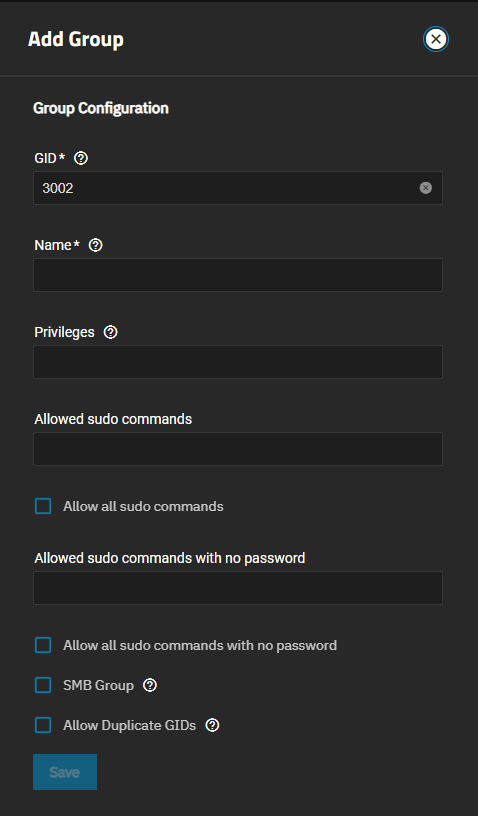
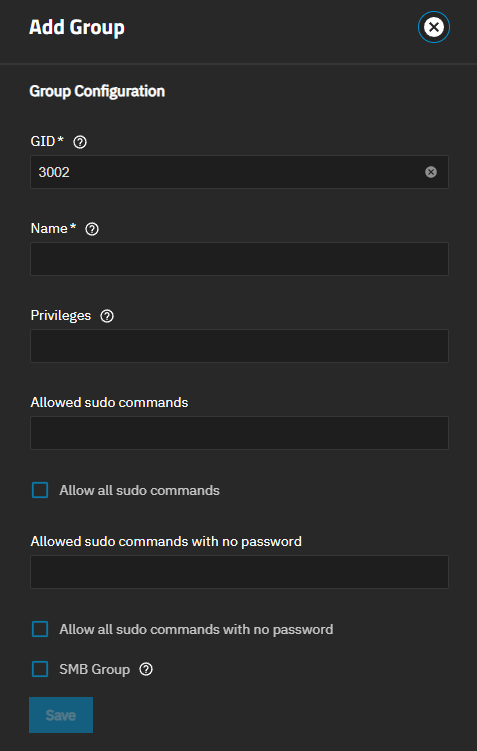
PD-1551 Update the Group Screens and Tutorial Articles (#3554)
This commit removes mentions of the Allow Duplicate GIDs from both articles, and update the screenshot.
Add information in the tutorial about why duplicate GIDs cannot no longer be entered in TrueNAS. Also fix the syntax in the includes file shortcode for columns.

diff --git a/content/SCALE/SCALEUIReference/Credentials/LocalGroupsScreens.md b/content/SCALE/SCALEUIReference/Credentials/LocalGroupsScreens.md
@@ -32,33 +32,26 @@ Click the <span class="material-icons">expand_more</span> arrow or anywhere on a
 
 Use [**Members**](#update-members) to manage membership and [**Edit**](#edit-group) or **Delete** to manage the group.
 
-## Add Group Screen
+## Add and Edit Group Screens
 
-Click **Add** to open the **Add Group** configuration screen.
+The **Add Group** and **Edit Group** screens show the same settings but the GID is not editable after saving changes on the **Add Group** screen.
+**Add** opens the **Add Group** configuration screen.
+The <svg xmlns="http://www.w3.org/2000/svg" width="24" height="24" viewBox="0 0 24 24"><path fill="currentColor" d="M20.71 7.04c.39-.39.39-1.04 0-1.41l-2.34-2.34c-.37-.39-1.02-.39-1.41 0l-1.84 1.83l3.75 3.75M3 17.25V21h3.75L17.81 9.93l-3.75-3.75z"/></svg> **Edit** icon opens the **Edit Group** screen.
 
 {{< trueimage src="/images/SCALE/Credentials/AddGroupScreen.png" alt="Add Group Screen" id="Add Group Screen" >}}
 
 {{< truetable >}}
 | Setting | Description |
 |---------|-------------|
-| **GID** | Required. Enter a unique number for the group ID (**GID**) TrueNAS uses to identify a Unix group. Enter a number above 1000 for a group with user accounts (you cannot change the GID later). If a system service uses a group, the group ID must match the default port number for the service. |
-| **Name** | Required. Enter a name for the group. The group name cannot begin with a hyphen (-) or contain a space, tab, or any of these characters: colon (:), plus (+), ampersand (&), hash (#), percent (%), carat (^), open or close parentheses ( ), exclamation mark (!), at symbol (@), tilde (~), asterisk (*), question mark (?) greater or less than (<) (>), equal (=). You can only use the dollar sign ($) as the last character in a user name. |
-| **Privileges** | Attaches administrator role privileges to the group. Using custom administrator roles aside from the defaults is an **experimental** feature and is not supported. Do not modify the local administrator or default admin user privileges! Only use if you need users in this group to access limited areas of the web UI or authentication for TrueNAS API calls. |
-| **Allowed sudo commands** | Use to list specific [sudo](https://www.sudo.ws/) commands allowed for group members. Enter each command as an absolute path to the ELF (Executable and Linkable Format) executable file, for example */usr/bin/nano*. <file>/usr/bin/</file> is the default location for commands. <br> Grants limited root-like permissions for group members when using these commands. Using sudo prompts the user for their account password. |
+| **GID** | (Required) Enter a unique number for the group ID (**GID**) TrueNAS uses to identify a Unix group. Enter a number above 1000 for a group with user accounts. If a system service uses the group, the group ID must match the default port number for the service.<br> Shows the group ID assigned at the time the group is created on the **Edit Group** screen but cannot be changed. |
+| **Name** | (Required) Enter a name for the group. The group name cannot begin with a hyphen (-) or contain a space, tab, or any of these characters: colon (:), plus (+), ampersand (&), hash (#), percent (%), carat (^), open or close parentheses ( ), exclamation mark (!), at symbol (@), tilde (~), asterisk (*), question mark (?) greater or less than (<) (>), equal (=). You can only use the dollar sign ($) as the last character in a group or user name. |
+| **Privileges** | Attaches defined role privileges to the group as configured on the Add or Edit Privileges screens. Using custom administrator roles aside from the defaults is an **experimental** feature and is not supported. Do not modify the local administrator or default admin user privileges! Only use if you need users in this group to access limited areas of the TrueNAS UI or authentication for TrueNAS API calls. |
+| **Allowed sudo commands** | Enter specific [sudo](https://www.sudo.ws/) commands group members are allowed to enter. Enter each command as an absolute path to the ELF (Executable and Linkable Format) executable file, for example */usr/bin/nano*. <file>/usr/bin/</file> is the default location for commands. <br> Grants limited root-like permissions for group members when using these commands. Using sudo prompts the user for their account password. |
 | **Allow all sudo commands** | Select to give group members permission to use all [sudo](https://www.sudo.ws/) commands. Using sudo prompts the user for their account password. |
-| **Allowed sudo commands with no password** | Use to list specific [sudo](https://www.sudo.ws/) commands allowed for group members with no password required. Enter each command as an absolute path to the ELF (Executable and Linkable Format) executable file, for example */usr/bin/nano*. <file>/usr/bin/</file> is the default location for commands. <br> Grants limited root-like permissions for group members when using these commands. Exercise caution when allowing sudo commands without password prompts. It is recommended to limit this privilege to trusted users and specific commands to minimize security risks. |
-| **Allow all sudo commands with no password** | Not recommended. Select to give group members the ability to use all [sudo](https://www.sudo.ws/) commands with no password required. |
-| **SMB Group** | Select to make this group available for permissions editors over [SMB protocol]({{< relref "/SCALE/SCALETutorials/Shares/_index.md" >}}) (and the share ACL editor). It is not used for SMB authentication or determining the user session token or internal permissions checks. |
-| **Allow Duplicate GIDs** | Not recommended. Select to allow more than one group to have the same group ID. Use only if absolutely necessary, as duplicate GIDs can lead to unexpected behavior. |
+| **Allowed sudo commands with no password** | Enter specific allowed [sudo](https://www.sudo.ws/) commands users in the group members can enter without needing to enter their password. Enter each command as an absolute path to the ELF (Executable and Linkable Format) executable file, for example */usr/bin/nano*. <file>/usr/bin/</file> is the default location for commands. <br> Grants limited root-like permissions for group members when using these commands. Exercise caution when allowing sudo commands without password prompts. Recommended to limit the privilege to trusted users and specific commands to minimize security risks. |
+| **Allow all sudo commands with no password** | Not recommended. Select to give group members the ability to enter all [sudo](https://www.sudo.ws/) commands without needing to enter a password. |
+| **SMB Group** | Select to make the group available for permissions editors over [SMB protocol]({{< relref "/SCALE/SCALETutorials/Shares/_index.md" >}}) (and the share ACL editor). Not used for SMB authentication or determining the user session token or internal permissions checks. |
 {{< /truetable >}}
-
-## Edit Group Screen
-
-Click **Edit** on an expanded group in the **Groups** screen to open the **Edit Group** screen.
-
-{{< trueimage src="/images/SCALE/Credentials/EditGroup.png" alt="Edit Group Screen" id="Edit Group Screen" >}}
-
-**Edit Group** has the same fields and checkboxes as [**Add Group**](#add-group-screen), except that it does not include **Allow Duplicate GIDs**.
 
 ## Update Members Screen
 
@@ -66,45 +59,42 @@ Use the **Update Members** screen to manage group permissions and access for lar
 
 {{< trueimage src="/images/SCALE/Credentials/GroupsManageMembersSCALE.png" alt="Update Members Screen" id="Update Members Screen" >}}
 
-To add user accounts to the group, select users and then click the right arrow <i class="fa fa-arrow-right" aria-hidden="true" title="Right Arrow"></i>.
-To remove user accounts from the group, select users and then click the left arrow <i class="fa fa-arrow-left" aria-hidden="true" title="Left Arrow"></i>.
-Select multiple users by holding <kbd>Ctrl</kbd> while clicking each entry.
-
-Click **Save**.
+The right arrow <i class="fa fa-arrow-right" aria-hidden="true" title="Right Arrow"></i> adds a user account to the group after selecting the user.
+The left arrow <i class="fa fa-arrow-left" aria-hidden="true" title="Left Arrow"></i> removes the selected user account from the group.
+Hold <kbd>Ctrl</kbd> while clicking each entry to select multiple groups.
 
 ## Privileges Screen
 
 {{< hint type="warning" title="Experimental Feature" >}}
-The **Privileges** feature is an early release experimental feature.
-Use the **Privileges** screens to view default administrator groups and roles, or define customized groupings of roles for different local or Directory Service-imported account groups.
+The **Privileges** feature is an early-release experimental feature.
+The **Privileges** screens show the default administrator groups and roles and define customized groupings of roles for different local or directory service-imported account groups.
 
-Only the **Readonly Admin**, **Sharing Admin**, and **Full Admin** roles are supported in the Web UI.
-Users can experiment with defining a new privilege but should **NOT** edit the existing predefined administrator roles!
+The TrueNAS UI shows the **Readonly Admin**, **Sharing Admin**.
+
+Do not edit the existing predefined administrator roles!
 Editing the unrestricted administrator account privilege can result in lost access to the system!
-
 {{< /hint >}}
 
 {{< trueimage src="/images/SCALE/Credentials/PrivilegesScreen.png" alt="Privileges Screen" id="Privileges Screen" >}}
 
+### Add and Edit Privilege Screens
+
 **Add** opens the **New Privilege** screen.
-
-{{< trueimage src="/images/SCALE/Credentials/AddNewPrivilegeScreen.png" alt="New Privilege Screen" id="New Privilege Screen" >}}
-
-Click on a listed privilege to expand the row and show details on the privilege.
-Edit opens the **Edit Privilege** screen.
-
+The <svg xmlns="http://www.w3.org/2000/svg" width="24" height="24" viewBox="0 0 24 24"><path fill="currentColor" d="M20.71 7.04c.39-.39.39-1.04 0-1.41l-2.34-2.34c-.37-.39-1.02-.39-1.41 0l-1.84 1.83l3.75 3.75M3 17.25V21h3.75L17.81 9.93l-3.75-3.75z"/></svg> **Edit** icon opens the **Edit Privilege** screen.
 The new and edit privilege screens show the same settings but not all settings are editable.
 
-{{<include file="/static/includes/addcolumnorganizer.md">}}
+{{< trueimage src="/images/SCALE/Credentials/AddNewPrivilegeScreen.png" alt="New Privilege Screen" id="New Privilege Screen" >}}
 
 {{< truetable >}}
 | Setting | Description |
 |---------|-------------|
-| **Name** | Enter a name for the new privilege. Names can include the dash (-) or underscore(_) special characters, and upper and lowercase alphanumeric characters. Enter a descriptive name for the privilege.  |
-| **Groups** | Click in the field to see a dropdown list of available groups to apply the privilege to. Do not add the predefined administrator or builtin groups! Only select new user groups created if you experiment with this function. |
-| **Directory Services Groups** | Click in the field to see a dropdown list of available groups to apply the privilege to. |
-| **Roles** | Click in the field to see a dropdown list of all available roles available to assign to the new privilege. |
-| **Web Shell Access** | Select to allow a user assign the new privilege access to the **System > Shell** screen.  |
+| **Name** | Enter a name for the new privilege. Names can include the dash (-) or underscore(_) special characters, and upper and lowercase alphanumeric characters. Enter a descriptive name for the privilege. **Name** shows on the **Edit Privilege** screen but is not editable. |
+| **Groups** | Shows a list of groups configured on the system to select from a dropdown list after clicking in the field. Select the group(s) to apply the privilege to. Do not add the predefined administrator or builtin groups! Only select new user groups created if you experiment with this function. |
+| **Directory Services Groups** | Shows a list of available groups to select after clicking in the field. Applies the privilege to selected groups. |
+| **Roles** |Select from a dropdown list of all available roles available to assign to the new privilege, or change in an existing privilege. |
+| **Web Shell Access** | Select to allow a user to assign the new privilege access to the **System > Shell** screen. |
 {{< /truetable >}}
 
-Assigned administrator roles display on the [Users Screen]({{< relref "LocalUsersScreensSCALE.md" >}}).
+Assigned administrator roles show on the [Users Screen]({{< relref "LocalUsersScreensSCALE.md" >}}).
+
+{{< include file="/static/includes/addcolumnorganizer.md" >}}

diff --git a/content/SCALE/SCALETutorials/Credentials/ManageLocalGroups.md b/content/SCALE/SCALETutorials/Credentials/ManageLocalGroups.md
@@ -23,8 +23,9 @@ To see saved groups, go to **Credentials > Groups**.
 
 {{< trueimage src="/images/SCALE/Credentials/GroupsListedSCALE.png" alt="Groups Screen" id="Groups Screen" >}}
 
-By default, TrueNAS hides the system built-in groups.
-To see built-in groups, click the **Show Built-In Groups** toggle. The toggle turns blue and all built-in groups display. Click the **Show Built-In Groups** toggle again to show only non-built-in groups on the system.
+By default, TrueNAS hides the built-in groups in the system.
+To see built-in groups, click the **Show Built-In Groups** toggle. The toggle turns blue and shows all built-in groups.
+Click the **Show Built-In Groups** toggle again to show only non-built-in groups on the system.
 
 ## Adding a New Group
 
@@ -32,21 +33,21 @@ To create a group, go to **Credentials > Groups** and click **Add**.
 
 {{< trueimage src="/images/SCALE/Credentials/AddGroupScreen.png" alt="Add Group Screen" id="Add Group Screen" >}}
 
-Enter a unique number for the group ID in **GID** that TrueNAS uses to identify a Unix group.
+Enter a unique number for the group ID in **GID**. TrueNAS uses this to identify a Unix group.
 Enter a number above 3000 for a group with user accounts or enter the default port number as the GID for a system service.
 
 Enter a name for the group.
 The group name cannot begin with a hyphen (-) or contain a space, tab, or any of these characters: colon (:), plus (+), ampersand (&), hash (#), percent (%), carat (^), open or close parentheses ( ), exclamation mark (!), at symbol (@), tilde (~), asterisk (*), question mark (?) greater or less than (<) (>), equal (=).
-You can only use the dollar sign ($) as the last character in a group name.
+The dollar sign ($) can be the last character in a group name.
 
 {{< include file="/static/includes/AdminSudo.md" >}}
 
 To allow Samba permissions and authentication to use this group, select **SMB Group**.
+{{< hint type=info >}}
+Using the same group ID (GID) is not permitted as it can create confusion because the operating system treats it as the same group, even if a different name is assigned to the group.
+{{< /hint >}}
 
-To allow more than one group to have the same group ID (not recommended), select **Allow Duplicate GIDs**.
-Use only if absolutely necessary, as duplicate GIDs can lead to unexpected behavior.
-
-Select **SMB Group** to make this group available for permissions editors over SMB protocol, and add the share ACL Editor.
+Select **SMB Group** to make this group available for permissions editors over SMB protocol, and add the share ACL editor.
 This is not used for SMB authentication or determining the user session token or internal permissions checks.
 
 Click **Save**.
@@ -61,7 +62,7 @@ Use [**Members**](#update-members) to manage membership and [**Edit**](#edit-gro
 
 ### Update Members
 
-To manage group membership, go to **Credentials > Groups**, expand the group entry, and click **Members** to open the **Update Members** screen.
+To manage group membership, go to **Credentials > Groups**, click on the group entry to expand it, then click **Members** to open the **Update Members** screen.
 
 {{< trueimage src="/images/SCALE/Credentials/GroupsManageMembersSCALE.png" alt="Update Members Screen" id="Update Members Screen" >}}
 
